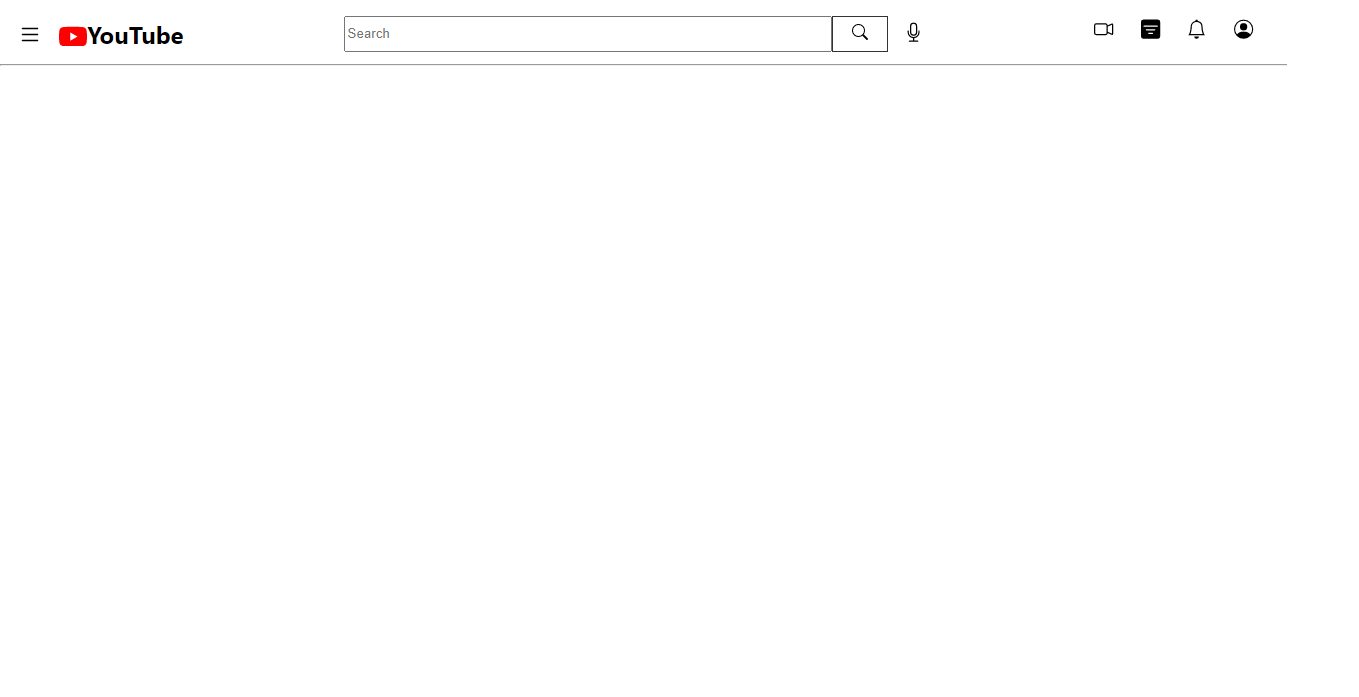
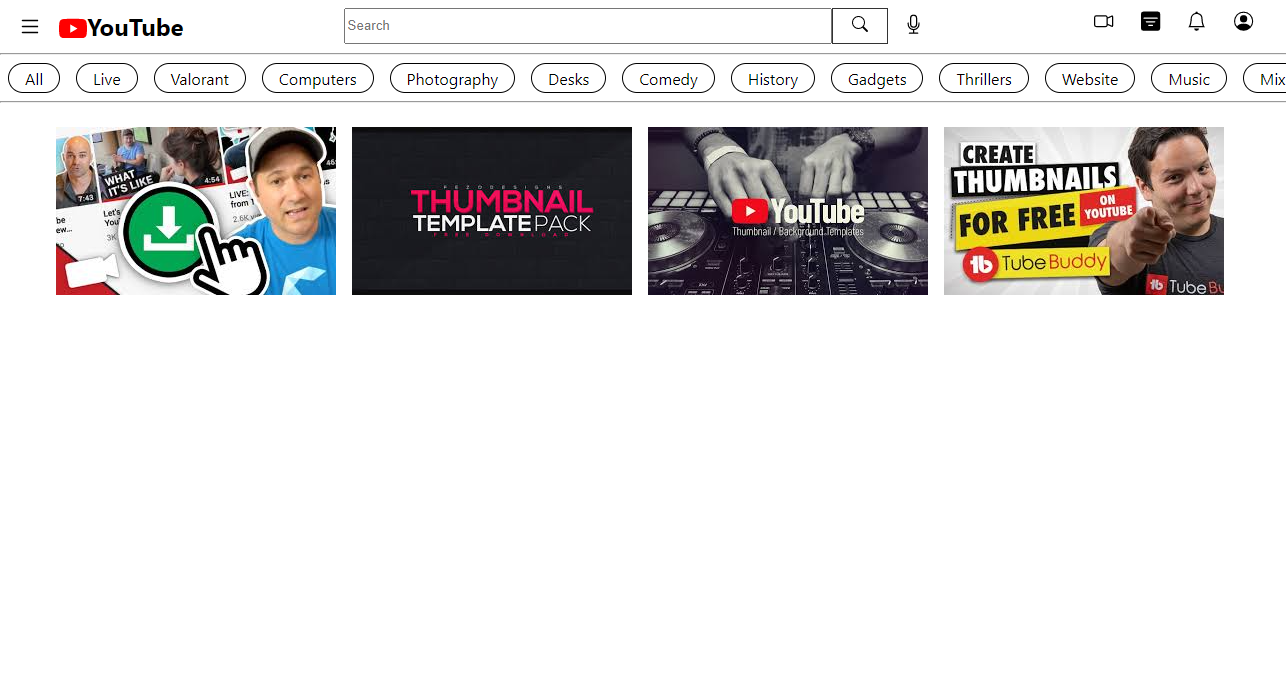
Added unresponsive tags list and few test cards

diff --git a/src/components/cards/cards.css b/src/components/cards/cards.css
@@ -1,0 +1,28 @@
+.cards{
+    margin: 1rem 1rem 1rem 3rem;
+    display: flex;
+}
+.cardImage-1{
+    margin: 0.5rem;
+    height: 168px;
+    width: 280px;
+    background: url('../../DataSet//thumbnailImages/image-1.jfif');
+}
+.cardImage-2{
+    margin: 0.5rem;
+    height: 168px;
+    width: 280px;
+    background: url('../../DataSet//thumbnailImages/image-2.jfif');
+}
+.cardImage-3{
+    margin: 0.5rem;
+    height: 168px;
+    width: 280px;
+    background: url('../../DataSet//thumbnailImages/image-3.jfif');
+}
+.cardImage-4{
+    margin: 0.5rem;
+    height: 168px;
+    width: 280px;
+    background: url('../../DataSet//thumbnailImages/image-4.jfif');
+}

diff --git a/src/DataSet/tagData.js b/src/DataSet/tagData.js
@@ -1,0 +1,19 @@
+const tagData = 
+[
+    {"name" : "All"},
+    {"name" : "Live"},
+    {"name" : "Valorant"},
+    {"name" : "Computers"},
+    {"name" : "Photography"},
+    {"name" : "Desks"},
+    {"name" : "Comedy"},
+    {"name" : "History"},
+    {"name" : "Gadgets"},
+    {"name" : "Thrillers"},
+    {"name" : "Website"},
+    {"name" : "Music"},
+    {"name" : "Mixes"},
+    {"name" : "Watched"},
+]
+
+export default tagData;

diff --git a/src/components/tagsection/TagsList.js b/src/components/tagsection/TagsList.js
@@ -1,0 +1,18 @@
+import React from 'react'
+import tagData from '../../DataSet/tagData'
+import TagList from './TagList'
+import './tagsection.css'
+
+function TagsList(props)
+{
+    const TagListData = tagData.map(value => {
+        return <TagList name={value.name} />
+      })
+    return(
+        <div className="taglist-container">
+            {TagListData}
+        </div>
+    )
+}
+
+export default TagsList

diff --git a/src/components/cards/Cards.js b/src/components/cards/Cards.js
@@ -1,0 +1,16 @@
+import React from 'react'
+import './cards.css'
+function Cards()
+{
+    return(
+        <div className="cards">
+            <div className="cardImage-1"></div>
+            <div className="cardImage-2"></div>
+            <div className="cardImage-3"></div>
+            <div className="cardImage-4"></div>
+            
+        </div>
+    )
+}
+
+export default Cards 

diff --git a/src/App.js b/src/App.js
@@ -1,11 +1,17 @@
 import './App.css';
 import Navbar from './components/topnavbar/Navbar'
+import TagsList from './components/tagsection/TagsList'
+import Cards from './components/cards/Cards'
+
 
 function App() {
   return (
     <div>
       <Navbar />
       <hr />
+      <TagsList />
+      <hr />
+      <Cards />
     </div>
   );
 }

diff --git a/src/components/tagsection/tagsection.css b/src/components/tagsection/tagsection.css
@@ -1,0 +1,10 @@
+.taglist-container{
+    display: flex;
+    overflow: hidden;
+}
+.taglist-item{
+    padding: 0.2rem 1rem;
+    margin: 0 0.5rem;
+    border: 1px solid black;
+    border-radius: 400px;
+}

diff --git a/src/components/tagsection/TagList.js b/src/components/tagsection/TagList.js
@@ -1,0 +1,13 @@
+import React from 'react'
+
+function TagList(props)
+{
+    return(
+
+        <div className="taglist-item">
+            {props.name}
+        </div>
+    )
+}
+
+export default TagList

diff --git a/src/components/topnavbar/topnavbar.css b/src/components/topnavbar/topnavbar.css
@@ -1,6 +1,6 @@
 .navbar{
     display: flex;
-    padding: 1rem 1rem 0.25rem 1rem;
+    padding: 0.5rem 1rem 0.1rem 1rem;
 }
 
 .hamburger{
